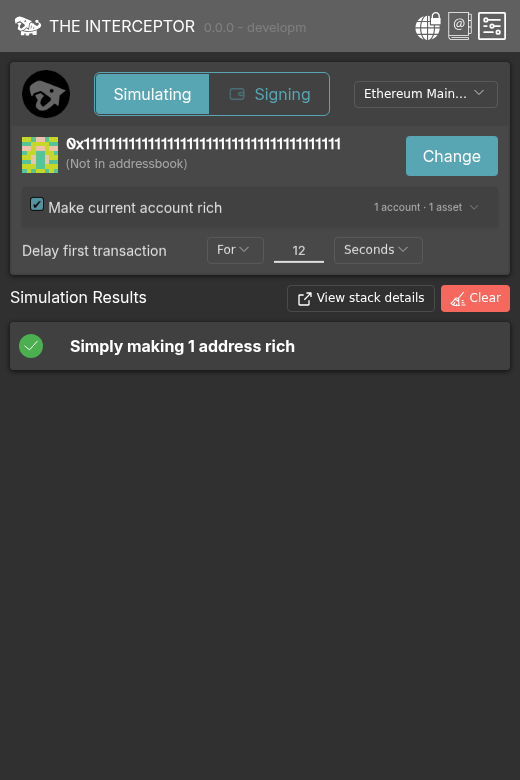
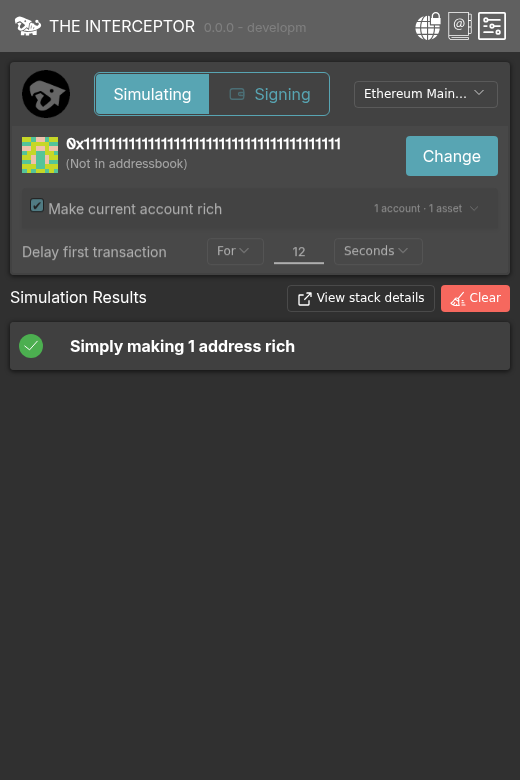
Align native and token balance rows

diff --git a/app/ts/components/pages/Home.tsx b/app/ts/components/pages/Home.tsx
@@ -908,36 +908,38 @@ function RichList({ makeCurrentAddressRich, richNativeAmount, nativeCurrencyTick
 									</div>
 								</div>
 								{ selectedRichProfile.value === undefined ? <p class = 'help'>This account has no balance profile.</p> : <>
-									<div class = 'rich-mode-balance-row rich-mode-balance-row--native'>
-										<RichTokenIcon class = 'rich-mode-balance-token-icon' label = { nativeCurrencyTicker } logoUri = { nativeCurrencyTicker === 'ETH' ? '../img/coins/ethereum.png' : undefined }/>
-										<span class = 'rich-mode-balance-token-name'><strong>{ nativeCurrencyTicker }</strong><small>Native currency</small></span>
-										<RichAmountEditor amount = { selectedRichProfile.value.nativeAmount } defaultAmount = { richNativeAmount.value } decimals = { 18 } disabled = { richTokenPending.value } error = { richTokenErrorTarget.value === 'native' ? richTokenError.value : undefined } label = { `${ nativeCurrencyTicker } rich amount for ${ selectedRichAccount.value.addressBookEntry.name }` } unit = { nativeCurrencyTicker } onCommit = { setNativeAmount } onReset = { () => { richTokenError.value = undefined; richTokenErrorTarget.value = undefined; void saveNativeAmount(richNativeAmount.value) } }/>
-										<span/>
-									</div>
-									<div aria-busy = { richTokenPending.value } aria-label = 'Configured rich tokens' class = 'rich-mode-configured-tokens'>
-										{ enabledRichTokens.value.length !== 0 || addingRichTokens.value.length !== 0 || failedAddedRichToken.value !== undefined ? <></> : <div class = 'rich-mode-empty-state'>
-											<span class = 'rich-mode-empty-state-icon' aria-hidden = 'true'>+</span>
-											<span><strong>Only { nativeCurrencyTicker }</strong><small>Add an address-book token.</small></span>
-											<button type = 'button' class = 'btn btn--ghost is-small' disabled = { richTokenPending.value || availableRichTokens.value.length === 0 } onClick = { showRichTokenSelection }>Select token</button>
-										</div> }
-										{ addingRichTokens.value.map((option) => <div class = 'rich-mode-balance-row is-adding' key = { `adding:${ getRichTokenKey(option) }` }>
-											<RichTokenIcon class = 'rich-mode-balance-token-icon' label = { option.symbol } logoUri = { option.logoUri }/>
-											<span class = 'rich-mode-balance-token-name'><strong>{ getRichTokenLabel(option) }</strong><small>{ option.name }</small></span>
-											<span class = 'rich-mode-balance-progress' role = 'status'>{ richTokenPendingKey.value === getRichTokenKey(option) ? 'Scanning storage…' : 'Queued' }</span>
+									<div class = 'rich-mode-balance-rows'>
+										<div class = 'rich-mode-balance-row rich-mode-balance-row--native'>
+											<RichTokenIcon class = 'rich-mode-balance-token-icon' label = { nativeCurrencyTicker } logoUri = { nativeCurrencyTicker === 'ETH' ? '../img/coins/ethereum.png' : undefined }/>
+											<span class = 'rich-mode-balance-token-name'><strong>{ nativeCurrencyTicker }</strong><small>Native currency</small></span>
+											<RichAmountEditor amount = { selectedRichProfile.value.nativeAmount } defaultAmount = { richNativeAmount.value } decimals = { 18 } disabled = { richTokenPending.value } error = { richTokenErrorTarget.value === 'native' ? richTokenError.value : undefined } label = { `${ nativeCurrencyTicker } rich amount for ${ selectedRichAccount.value.addressBookEntry.name }` } unit = { nativeCurrencyTicker } onCommit = { setNativeAmount } onReset = { () => { richTokenError.value = undefined; richTokenErrorTarget.value = undefined; void saveNativeAmount(richNativeAmount.value) } }/>
 											<span/>
-										</div>) }
-										{ failedAddedRichToken.value === undefined ? <></> : <div class = 'rich-mode-balance-row is-failed' key = { `failed:${ getRichTokenKey(failedAddedRichToken.value) }` }>
-											<RichTokenIcon class = 'rich-mode-balance-token-icon' label = { failedAddedRichToken.value.symbol } logoUri = { failedAddedRichToken.value.logoUri }/>
-											<span class = 'rich-mode-balance-token-name'><strong>{ getRichTokenLabel(failedAddedRichToken.value) }</strong><small>{ richTokenError.value ?? 'Storage scan failed.' }</small></span>
-											<button type = 'button' class = 'btn btn--outline is-small' disabled = { richTokenPending.value } onClick = { retryFailedRichTokenSelection }>Retry</button>
-											<button type = 'button' class = 'btn btn--ghost is-small rich-mode-remove-token' disabled = { richTokenPending.value } aria-label = { `Remove failed rich token ${ getRichTokenLabel(failedAddedRichToken.value) }` } data-tooltip = 'Remove token' onClick = { removeFailedRichTokenSelection }><TrashIcon/></button>
-										</div> }
-										{ enabledRichTokens.value.map((option) => <div class = { `rich-mode-balance-row${ newlyAddedRichTokenKeys.value.includes(getRichTokenKey(option)) ? ' is-new' : '' }` } key = { getRichTokenKey(option) }>
-											<RichTokenIcon class = 'rich-mode-balance-token-icon' label = { option.symbol } logoUri = { option.logoUri }/>
-											<span class = 'rich-mode-balance-token-name'><strong>{ getRichTokenLabel(option) }</strong><small>{ option.name }</small></span>
-											<RichAmountEditor amount = { option.amount } autoFocus = { newlyAddedRichTokenKeys.value[0] === getRichTokenKey(option) } defaultAmount = { getDefaultRichTokenAmount(option.decimals) } decimals = { Number(option.decimals) } disabled = { !option.enabled || richTokenPending.value } error = { richTokenErrorTarget.value === getRichTokenKey(option) ? richTokenError.value : undefined } label = { `${ getRichTokenLabel(option) } rich amount` } unit = { option.symbol } onCommit = { input => { void setRichTokenAmount(option, input) } } onReset = { () => { richTokenError.value = undefined; richTokenErrorTarget.value = undefined; void saveRichTokenAmount(option, getDefaultRichTokenAmount(option.decimals)) } }/>
-											<button type = 'button' class = 'btn btn--ghost is-small rich-mode-remove-token' disabled = { richTokenPending.value } aria-label = { `Remove rich token ${ getRichTokenLabel(option) }` } data-tooltip = 'Remove token' onClick = { () => { void setRichTokenEnabled(option, false) } }><TrashIcon/></button>
-										</div>) }
+										</div>
+										<div aria-busy = { richTokenPending.value } aria-label = 'Configured rich tokens' class = 'rich-mode-configured-tokens'>
+											{ enabledRichTokens.value.length !== 0 || addingRichTokens.value.length !== 0 || failedAddedRichToken.value !== undefined ? <></> : <div class = 'rich-mode-empty-state'>
+												<span class = 'rich-mode-empty-state-icon' aria-hidden = 'true'>+</span>
+												<span><strong>Only { nativeCurrencyTicker }</strong><small>Add an address-book token.</small></span>
+												<button type = 'button' class = 'btn btn--ghost is-small' disabled = { richTokenPending.value || availableRichTokens.value.length === 0 } onClick = { showRichTokenSelection }>Select token</button>
+											</div> }
+											{ addingRichTokens.value.map((option) => <div class = 'rich-mode-balance-row is-adding' key = { `adding:${ getRichTokenKey(option) }` }>
+												<RichTokenIcon class = 'rich-mode-balance-token-icon' label = { option.symbol } logoUri = { option.logoUri }/>
+												<span class = 'rich-mode-balance-token-name'><strong>{ getRichTokenLabel(option) }</strong><small>{ option.name }</small></span>
+												<span class = 'rich-mode-balance-progress' role = 'status'>{ richTokenPendingKey.value === getRichTokenKey(option) ? 'Scanning storage…' : 'Queued' }</span>
+												<span/>
+											</div>) }
+											{ failedAddedRichToken.value === undefined ? <></> : <div class = 'rich-mode-balance-row is-failed' key = { `failed:${ getRichTokenKey(failedAddedRichToken.value) }` }>
+												<RichTokenIcon class = 'rich-mode-balance-token-icon' label = { failedAddedRichToken.value.symbol } logoUri = { failedAddedRichToken.value.logoUri }/>
+												<span class = 'rich-mode-balance-token-name'><strong>{ getRichTokenLabel(failedAddedRichToken.value) }</strong><small>{ richTokenError.value ?? 'Storage scan failed.' }</small></span>
+												<button type = 'button' class = 'btn btn--outline is-small' disabled = { richTokenPending.value } onClick = { retryFailedRichTokenSelection }>Retry</button>
+												<button type = 'button' class = 'btn btn--ghost is-small rich-mode-remove-token' disabled = { richTokenPending.value } aria-label = { `Remove failed rich token ${ getRichTokenLabel(failedAddedRichToken.value) }` } data-tooltip = 'Remove token' onClick = { removeFailedRichTokenSelection }><TrashIcon/></button>
+											</div> }
+											{ enabledRichTokens.value.map((option) => <div class = { `rich-mode-balance-row${ newlyAddedRichTokenKeys.value.includes(getRichTokenKey(option)) ? ' is-new' : '' }` } key = { getRichTokenKey(option) }>
+												<RichTokenIcon class = 'rich-mode-balance-token-icon' label = { option.symbol } logoUri = { option.logoUri }/>
+												<span class = 'rich-mode-balance-token-name'><strong>{ getRichTokenLabel(option) }</strong><small>{ option.name }</small></span>
+												<RichAmountEditor amount = { option.amount } autoFocus = { newlyAddedRichTokenKeys.value[0] === getRichTokenKey(option) } defaultAmount = { getDefaultRichTokenAmount(option.decimals) } decimals = { Number(option.decimals) } disabled = { !option.enabled || richTokenPending.value } error = { richTokenErrorTarget.value === getRichTokenKey(option) ? richTokenError.value : undefined } label = { `${ getRichTokenLabel(option) } rich amount` } unit = { option.symbol } onCommit = { input => { void setRichTokenAmount(option, input) } } onReset = { () => { richTokenError.value = undefined; richTokenErrorTarget.value = undefined; void saveRichTokenAmount(option, getDefaultRichTokenAmount(option.decimals)) } }/>
+												<button type = 'button' class = 'btn btn--ghost is-small rich-mode-remove-token' disabled = { richTokenPending.value } aria-label = { `Remove rich token ${ getRichTokenLabel(option) }` } data-tooltip = 'Remove token' onClick = { () => { void setRichTokenEnabled(option, false) } }><TrashIcon/></button>
+											</div>) }
+										</div>
 									</div>
 								</> }
 							{ richTokenPendingLabel.value === undefined ? <></> : <p class = 'help is-light' role = 'status'>{ richTokenPendingLabel.value }</p> }

diff --git a/test/benchmarks/richModeScreenshot.ts b/test/benchmarks/richModeScreenshot.ts
@@ -24,9 +24,16 @@ const getRichModeDialogRect = async (connection: CdpConnection) => await connect
 const assertSameRichModeDialogRect = (expected: DialogRect | undefined, actual: DialogRect | undefined) => {
 	if (expected === undefined || actual === undefined || actual.height !== expected.height || actual.left !== expected.left || actual.top !== expected.top || actual.width !== expected.width) throw new Error(`Rich-mode dialog moved or resized between views: ${ JSON.stringify(expected) } -> ${ JSON.stringify(actual) }`)
 }
-const getConfiguredTokenListSize = async (connection: CdpConnection) => await connection.evaluate<{ clientHeight: number, scrollHeight: number } | undefined>(`(() => {
-	const list = document.querySelector('.rich-mode-configured-tokens')
+const getBalanceRowsViewportSize = async (connection: CdpConnection) => await connection.evaluate<{ clientHeight: number, scrollHeight: number } | undefined>(`(() => {
+	const list = document.querySelector('.rich-mode-balance-rows')
 	return list instanceof HTMLElement ? { clientHeight: list.clientHeight, scrollHeight: list.scrollHeight } : undefined
+})()`)
+const getAmountEditorRect = async (connection: CdpConnection, ariaLabel: string) => await connection.evaluate<{ left: number, right: number } | undefined>(`(() => {
+	const input = document.querySelector(${ JSON.stringify(`[aria-label="${ ariaLabel }"]`) })
+	const editor = input?.closest('.rich-mode-amount-with-unit')
+	if (!(editor instanceof HTMLElement)) return undefined
+	const rect = editor.getBoundingClientRect()
+	return { left: rect.left, right: rect.right }
 })()`)
 const waitForCondition = async (connection: CdpConnection, description: string, expression: string) => {
 	for (let attempt = 0; attempt < 300; attempt += 1) {
@@ -203,6 +210,9 @@ try {
 	)
 	await sleep(250)
 	assertSameRichModeDialogRect(balanceDialogRect, await getRichModeDialogRect(popup))
+	const nativeAmountRect = await getAmountEditorRect(popup, 'ETH rich amount for 0x1111111111111111111111111111111111111111')
+	const usdcAmountRect = await getAmountEditorRect(popup, 'USDC rich amount')
+	if (nativeAmountRect === undefined || usdcAmountRect === undefined || nativeAmountRect.left !== usdcAmountRect.left || nativeAmountRect.right !== usdcAmountRect.right) throw new Error(`Native and token amount editors are not aligned: ${ JSON.stringify(nativeAmountRect) } -> ${ JSON.stringify(usdcAmountRect) }`)
 	await captureScreenshot(popup, screenshotPath)
 
 	await popup.evaluate(`(() => {
@@ -268,13 +278,13 @@ try {
 	await waitForCondition(popup, 'second account balances', `document.querySelector('[aria-label="ETH rich amount for Rich account 2"]')?.value === '1,001' && document.querySelector('[aria-label="TOK1 rich amount"]')?.value === '2,000'`)
 	await sleep(250)
 	const denseAccountDialogRect = await getRichModeDialogRect(popup)
-	const denseTokenListSize = await getConfiguredTokenListSize(popup)
+	const denseTokenListSize = await getBalanceRowsViewportSize(popup)
 	if (denseTokenListSize === undefined || denseTokenListSize.scrollHeight <= denseTokenListSize.clientHeight) throw new Error(`Dense rich-token list does not scroll internally: ${ JSON.stringify(denseTokenListSize) }`)
 	await clickAriaLabel(popup, 'Previous rich account')
 	await waitForCondition(popup, 'empty first account balances', `document.querySelector('[aria-label="ETH rich amount for Rich account 1"]')?.value === '1,000' && document.querySelector('[aria-label="TOK1 rich amount"]') === null`)
 	await sleep(250)
 	assertSameRichModeDialogRect(denseAccountDialogRect, await getRichModeDialogRect(popup))
-	const emptyTokenListSize = await getConfiguredTokenListSize(popup)
+	const emptyTokenListSize = await getBalanceRowsViewportSize(popup)
 	if (emptyTokenListSize?.clientHeight !== denseTokenListSize.clientHeight) throw new Error(`Rich-token list viewport resized between dense and empty accounts: ${ JSON.stringify(denseTokenListSize) } -> ${ JSON.stringify(emptyTokenListSize) }`)
 	await clickAriaLabel(popup, 'Next rich account')
 	await waitForCondition(popup, 'restored dense second account balances', `document.querySelector('[aria-label="ETH rich amount for Rich account 2"]')?.value === '1,001' && document.querySelector('[aria-label="TOK14 rich amount"]')?.value === '2,000'`)

diff --git a/app/css/interceptor.css b/app/css/interceptor.css
@@ -3896,7 +3896,11 @@ header:has(form[role='search']) h1 {
 }
 
 .rich-mode-balance-row--native {
+	background-color: var(--dialog-body-color);
 	border-bottom: 1px solid var(--alpha-005);
+	position: sticky;
+	top: 0;
+	z-index: 1;
 }
 
 .rich-mode-balance-row.is-adding {
@@ -4068,7 +4072,7 @@ header:has(form[role='search']) h1 {
 	text-align: right;
 }
 
-.rich-mode-configured-tokens {
+.rich-mode-balance-rows {
 	flex: 1 1 0;
 	min-height: 0;
 	overflow-y: auto;
